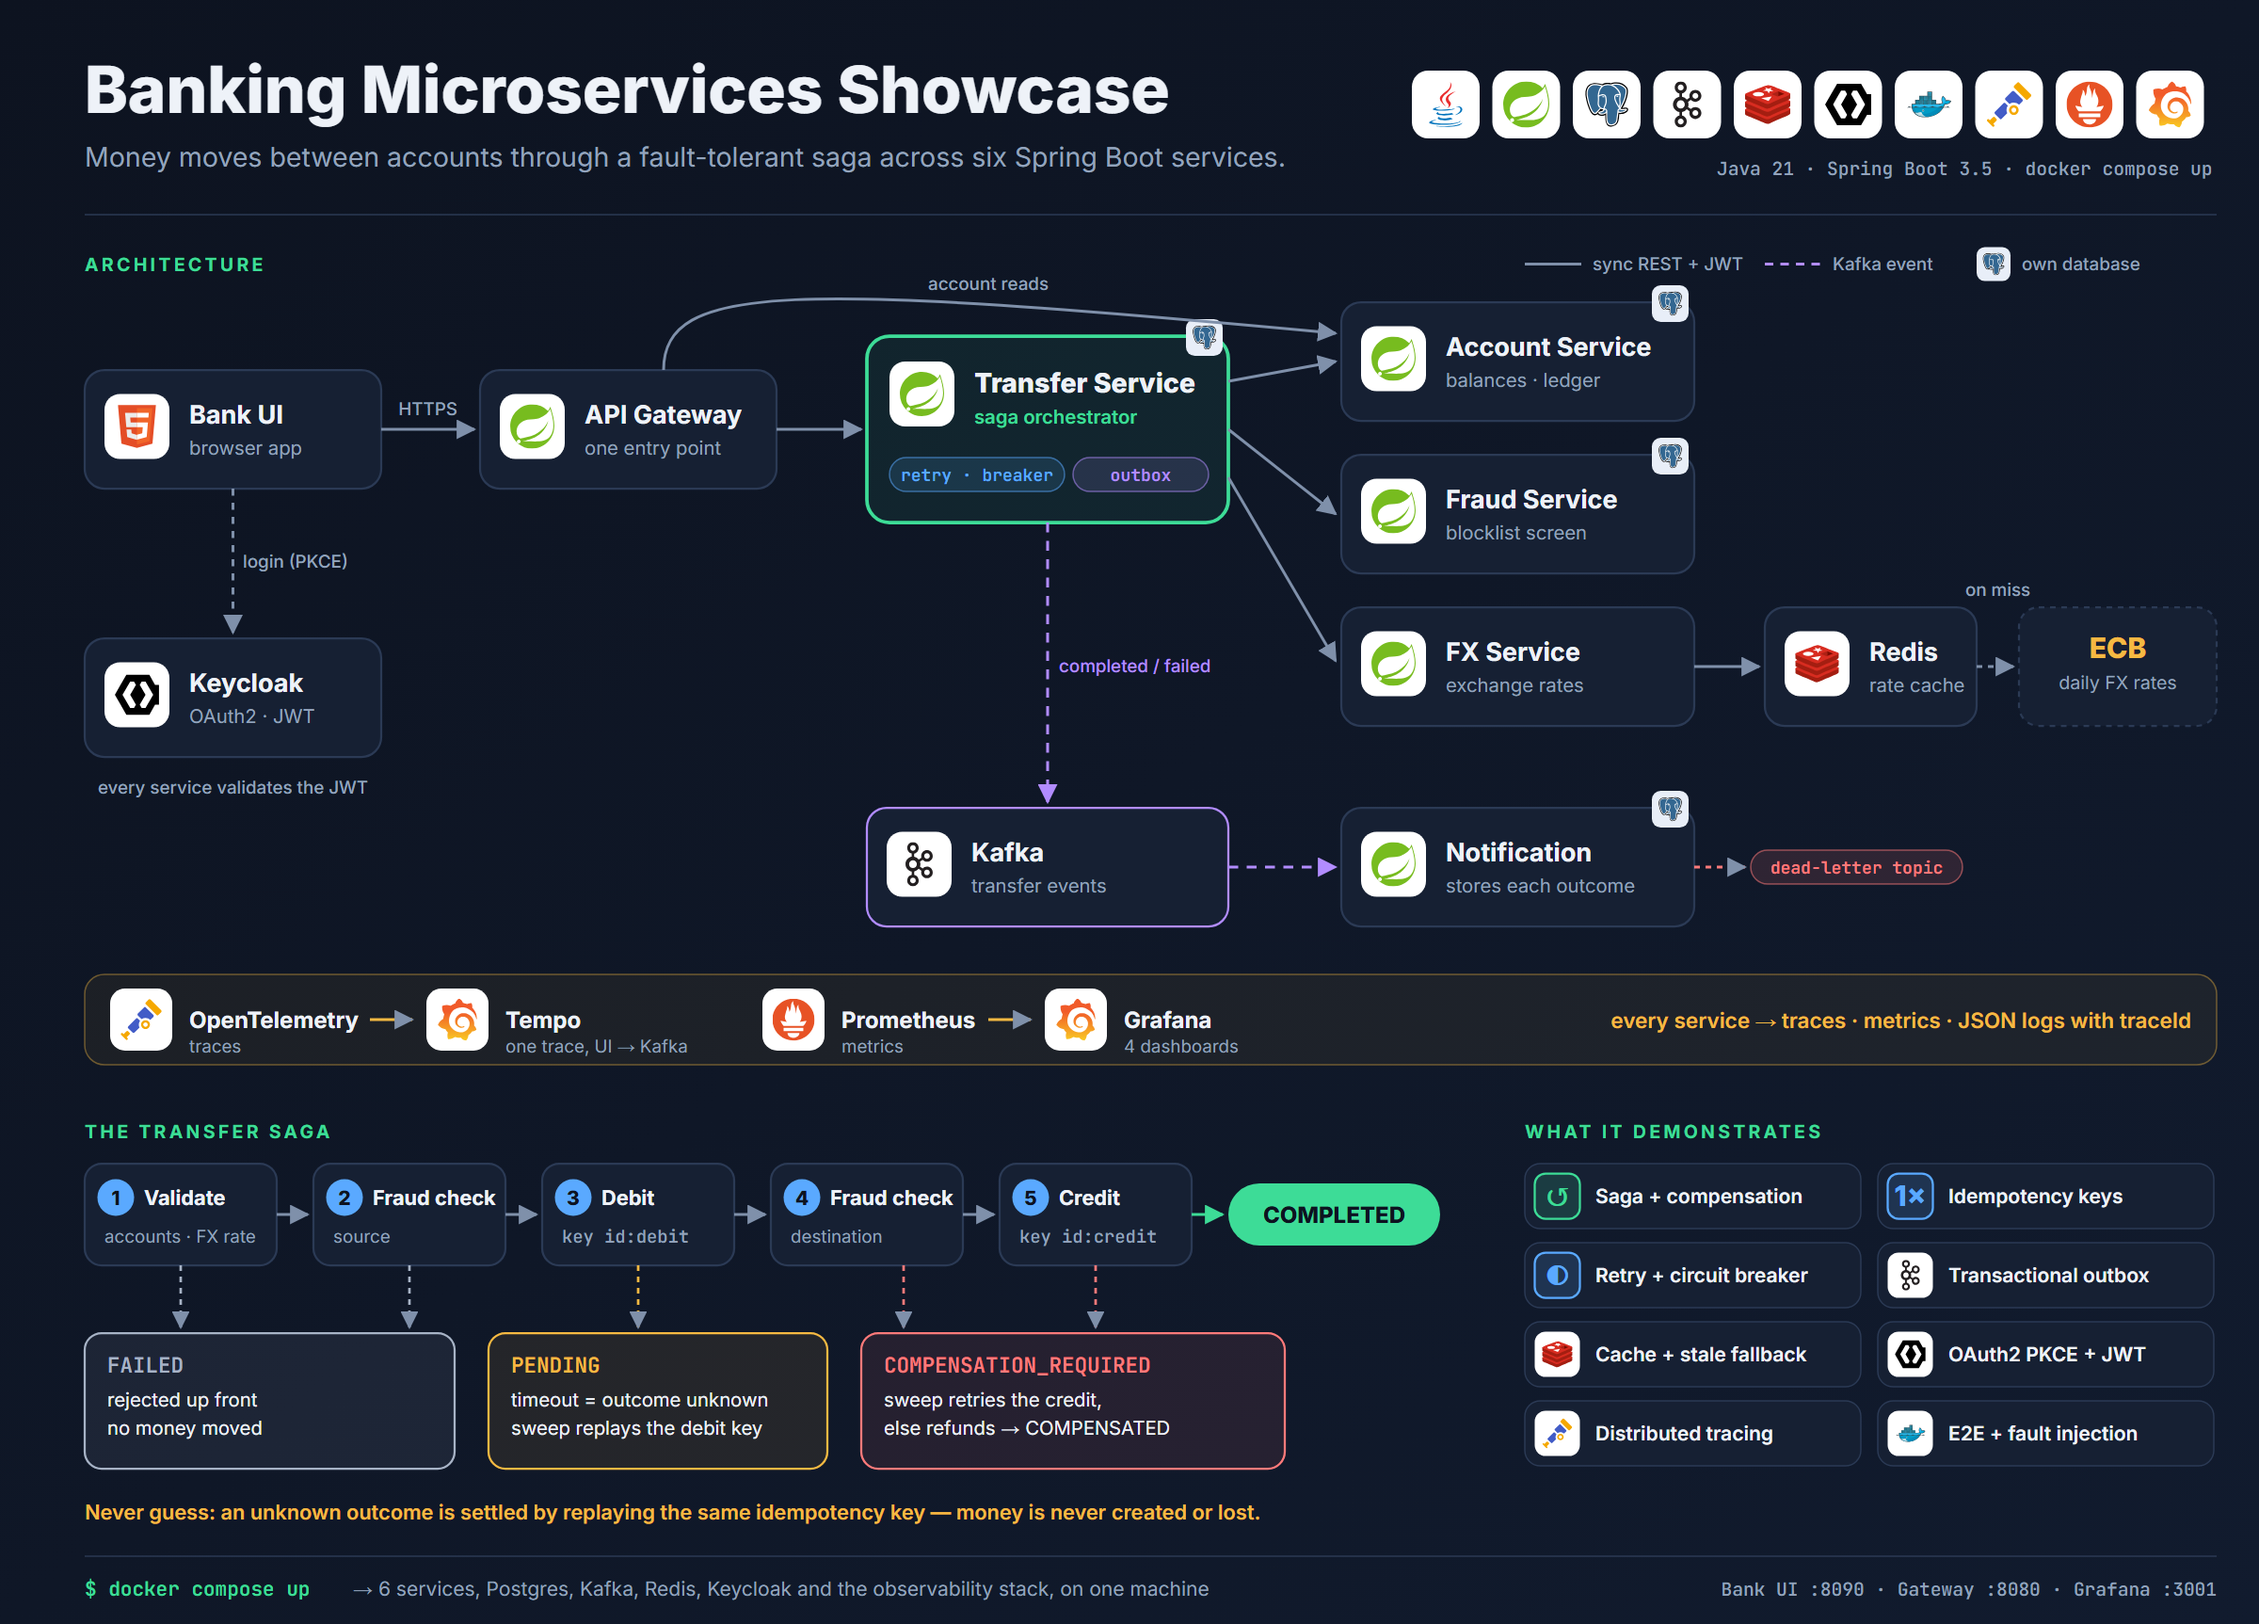
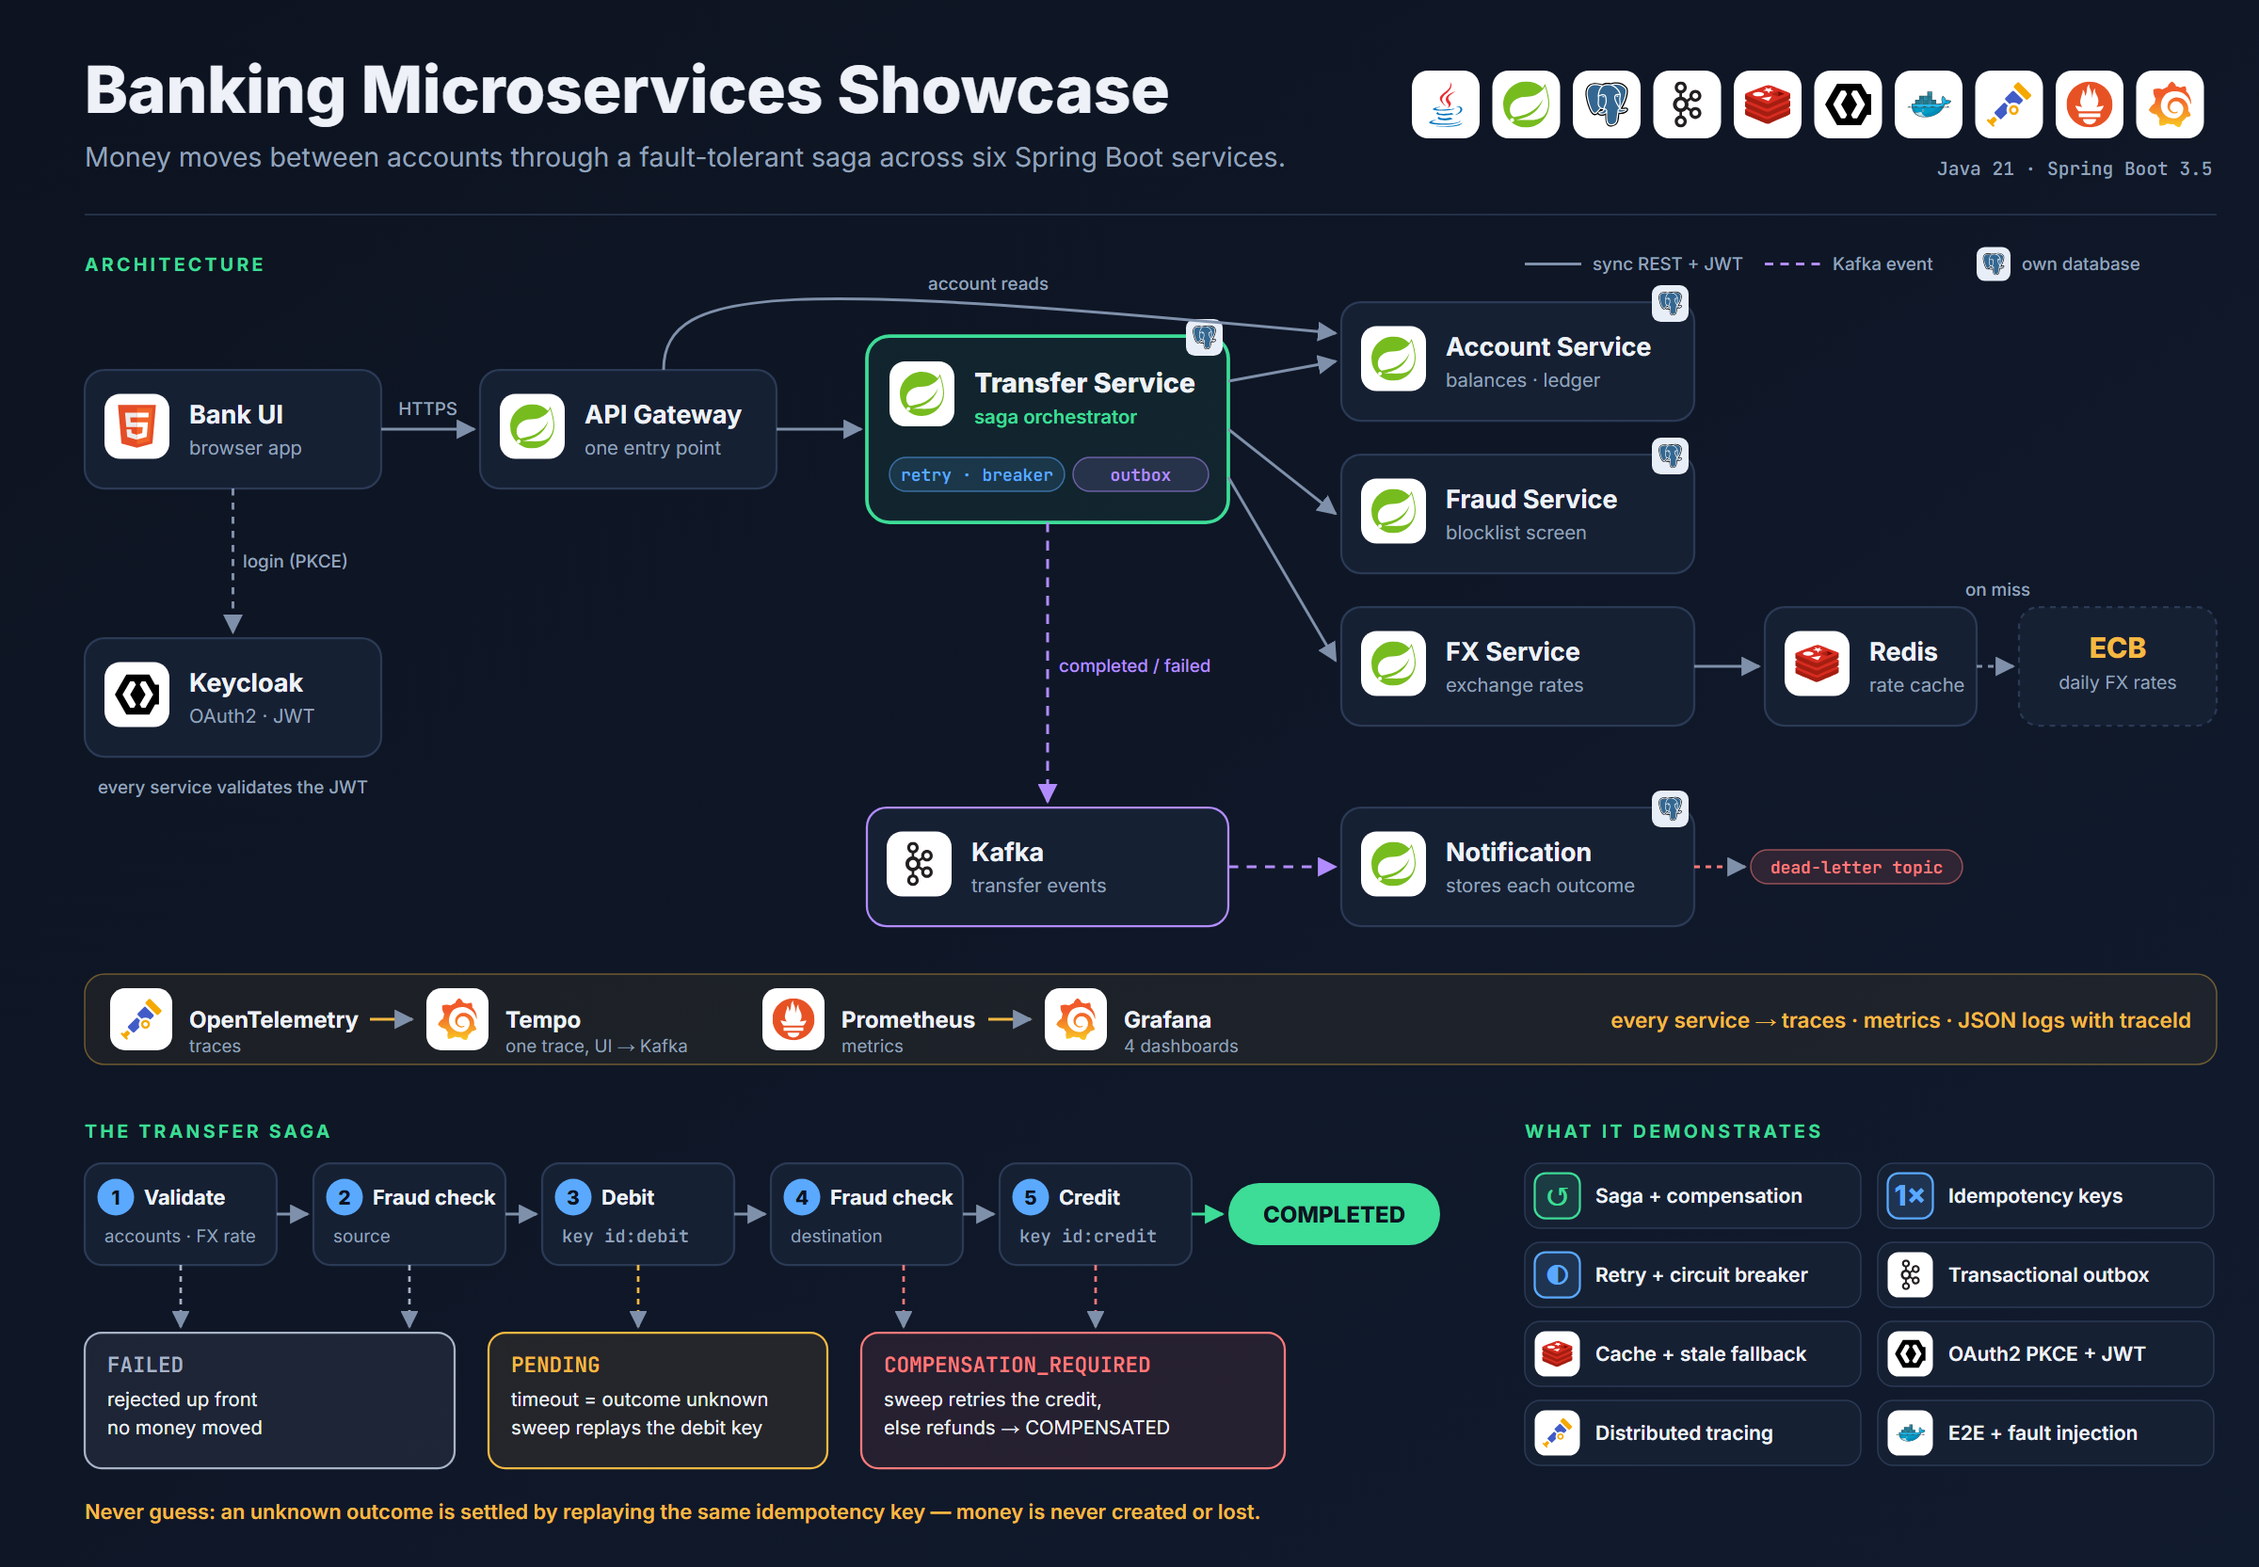
docs: drop the infographic footer
The run command and ports are README detail, not infographic content;
the "never guess" line now closes the image. Also drops "docker compose
up" from the header caption and trims the canvas to 1110px.

diff --git a/docs/infographic/infographic.html b/docs/infographic/infographic.html
@@ -15,7 +15,7 @@
 </style>
 </head>
 <body>
-<svg id="g" xmlns="http://www.w3.org/2000/svg" width="1600" height="1150" viewBox="0 0 1600 1150">
+<svg id="g" xmlns="http://www.w3.org/2000/svg" width="1600" height="1110" viewBox="0 0 1600 1110">
   <defs>
     <linearGradient id="bg" x1="0" y1="0" x2="1" y2="1">
       <stop offset="0" stop-color="#0D1320"/><stop offset="1" stop-color="#111B2E"/>
@@ -30,7 +30,7 @@
       <path d="M0,0 L10,5 L0,10 z" fill="#3DDC97"/>
     </marker>
   </defs>
-  <rect width="1600" height="1150" fill="url(#bg)"/>
+  <rect width="1600" height="1110" fill="url(#bg)"/>
 </svg>
 
 <script>
@@ -101,7 +101,7 @@ text(60, 118, 'Money moves between accounts through a fault-tolerant saga across
   { size: 19, fill: C.sub });
 ['java', 'spring', 'pg', 'kafka', 'redis', 'keycloak', 'docker', 'otel', 'prom', 'grafana']
   .forEach((k, i) => tile(1000 + i * 57, 50, 48, k, { title: NAME[k] }));
-text(1567, 124, 'Java 21 · Spring Boot 3.5 · docker compose up', { size: 13, fill: C.sub, anchor: 'end', mono: true });
+text(1567, 124, 'Java 21 · Spring Boot 3.5', { size: 13, fill: C.sub, anchor: 'end', mono: true });
 el('line', { x1: 60, y1: 152, x2: 1570, y2: 152, stroke: C.line });
 
 /* ---------------- Architecture ---------------- */
@@ -238,12 +238,6 @@ feats.forEach(([kind, v, color, t], i) => {
   text(x + 50, y + 28, t, { size: 14, weight: 600 });
 });
 
-/* ---------------- Footer ---------------- */
-el('line', { x1: 60, y1: 1102, x2: 1570, y2: 1102, stroke: C.line });
-text(60, 1130, '$ docker compose up', { size: 14, fill: C.green, mono: true, weight: 600 });
-text(250, 1130, '→ 6 services, Postgres, Kafka, Redis, Keycloak and the observability stack, on one machine',
-  { size: 14, fill: C.sub });
-text(1570, 1130, 'Bank UI :8090 · Gateway :8080 · Grafana :3001', { size: 13, fill: C.sub, anchor: 'end', mono: true });
 </script>
 </body>
 </html>
